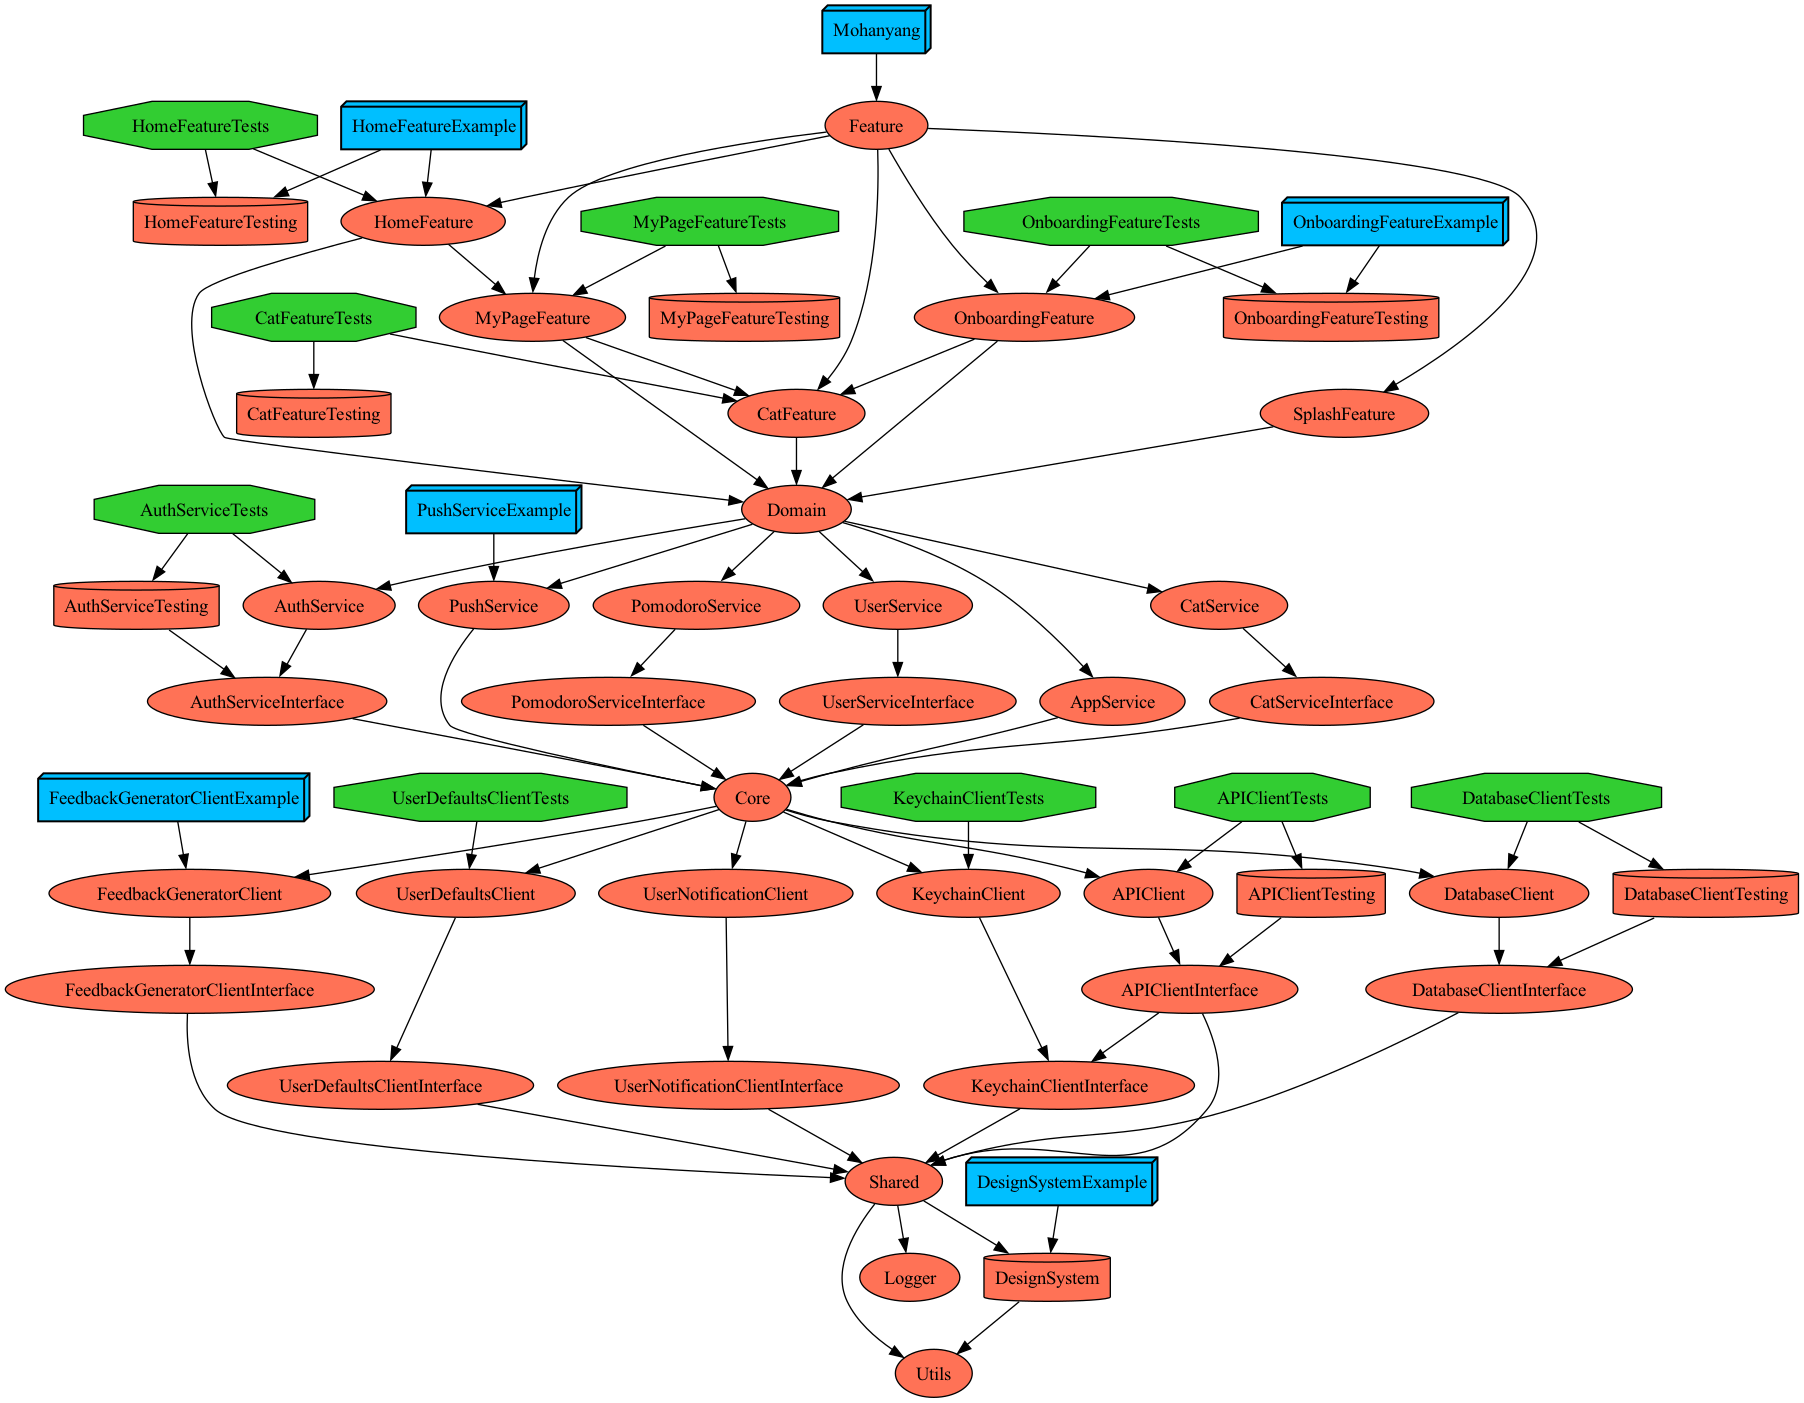
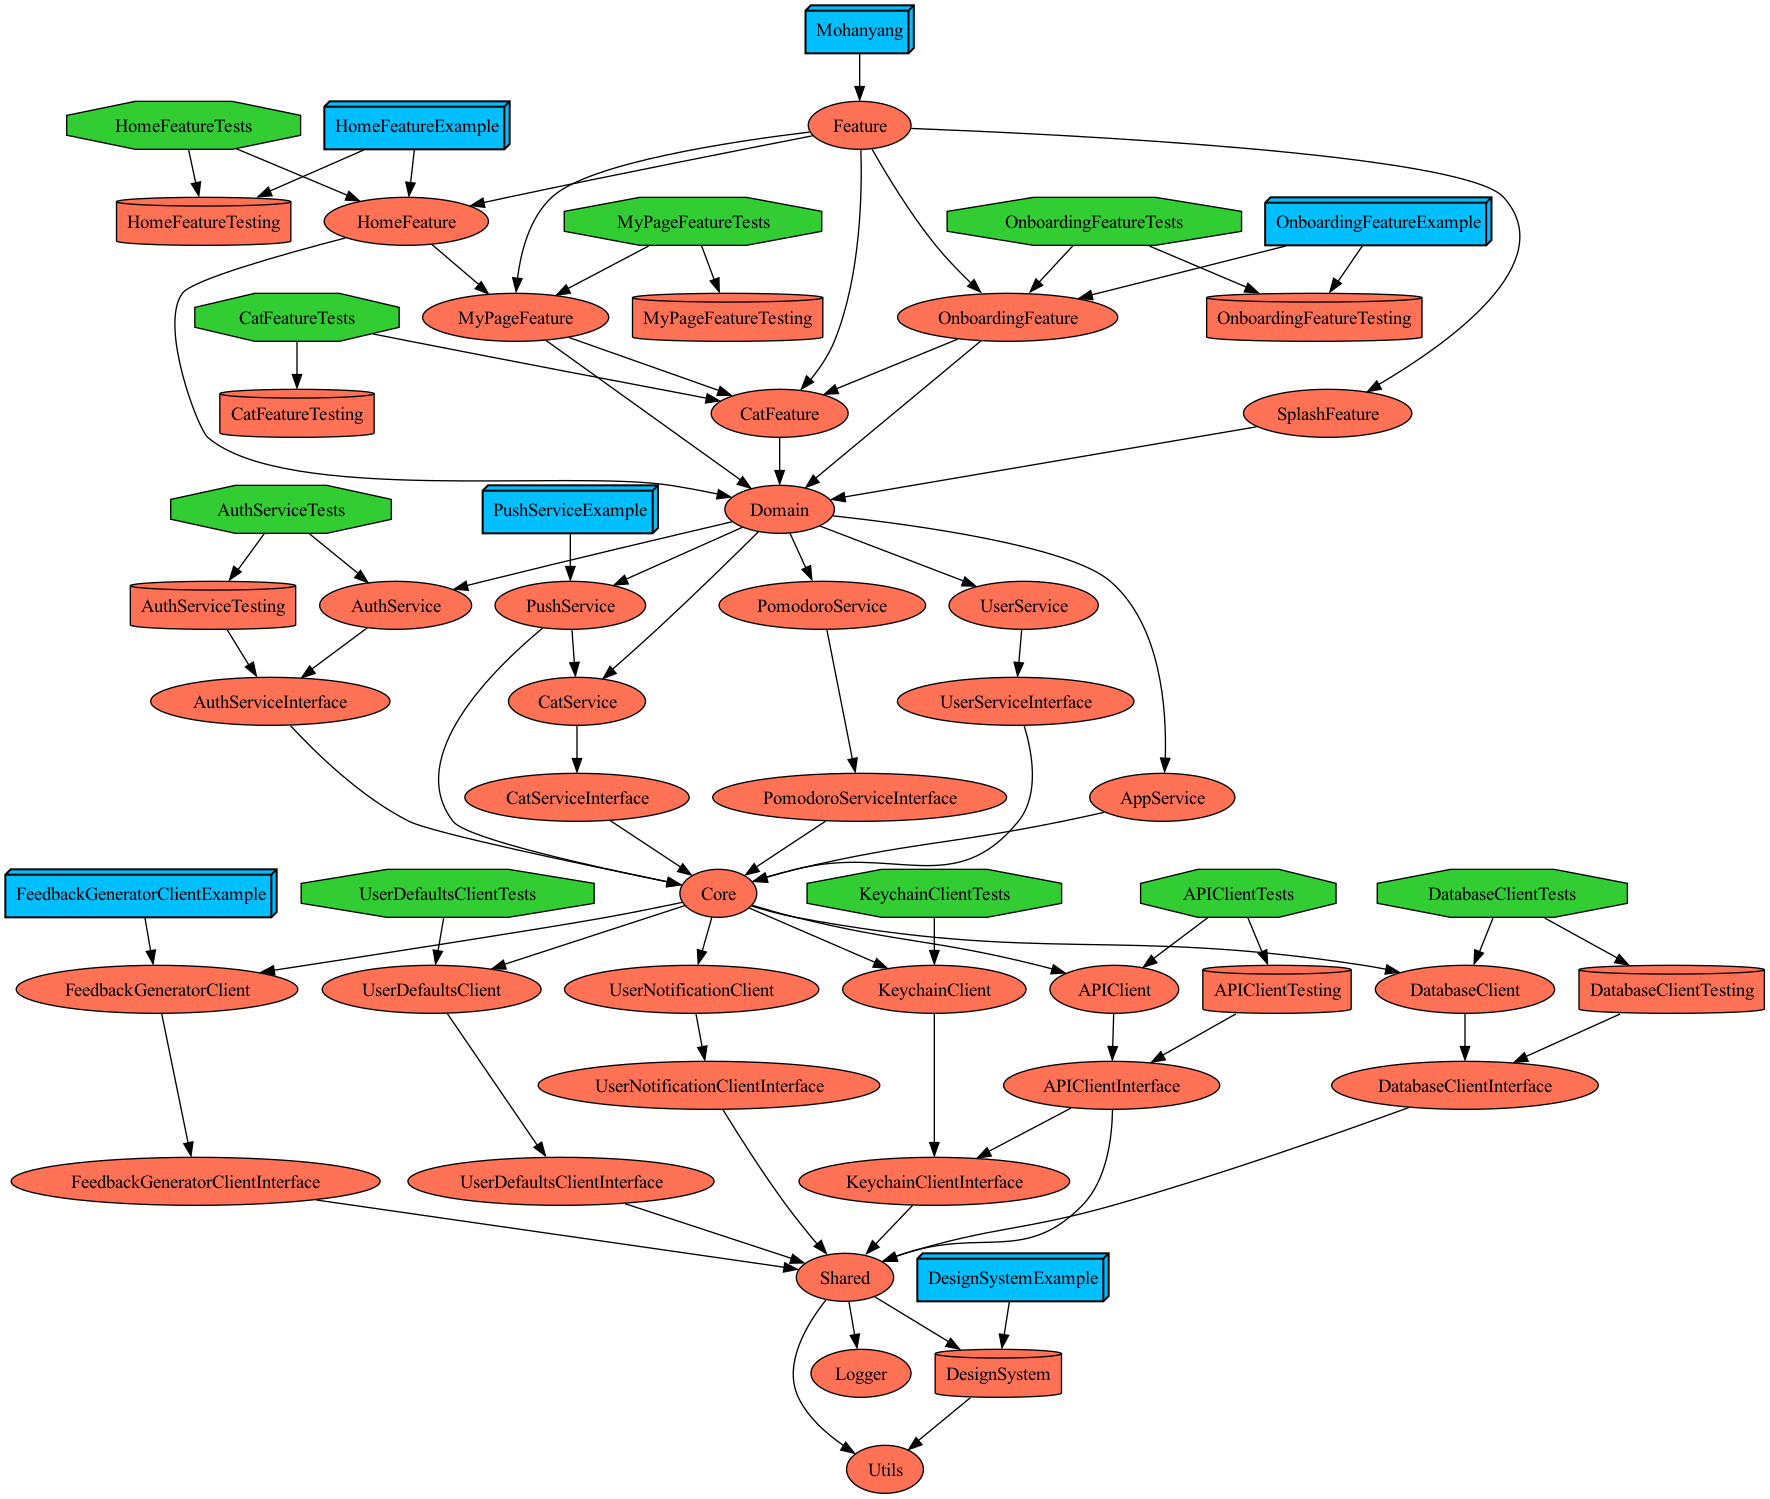
[CAT-217] 알림설정 UserDefault 저장 (#41)

Changed region(s): [[0.0, 0.0, 1.0, 1.0], [0.5593, 0.3065, 0.5904, 0.3371]]

diff --git a/Projects/Domain/CatService/Interface/Model/CatFactory.swift b/Projects/Domain/CatService/Interface/Model/CatFactory.swift
@@ -23,12 +23,14 @@ public struct AnyCat: CatFactoryProtocol, Identifiable, Equatable {
 
   public var id: String { base.id }
   public var no: Int { base.no }
+  public var name: String
   public var keyword: String { base.keyword }
   public var keywordImage: Image { base.keywordImage }
-  public var name: String
   public var catImage: Image { base.catImage }
   public var selectCatRivTrigger: String { base.selectCatRivTrigger }
-  public var pushNotificationTitle: String { base.pushNotificationTitle }
+  public var focusEndPushTitle: String { base.focusEndPushTitle }
+  public var restEndPushTitle: String { base.restEndPushTitle }
+  public var disturbPushTitle: String { base.disturbPushTitle }
 
   public static func == (lhs: AnyCat, rhs: AnyCat) -> Bool {
     lhs.base.id == rhs.base.id
@@ -49,7 +51,9 @@ public struct CheeseCat: CatFactoryProtocol {
   public var keywordImage: Image = DesignSystemAsset.Image._16Star.swiftUIImage
   public var catImage: Image = Image(systemName: "star.fill")
   public var selectCatRivTrigger: String = "Click_Cheese Cat"
-  public var pushNotificationTitle: String = "어디갔냐옹..."
+  public var focusEndPushTitle: String = "집중이 끝났다냥! 이제 나랑 놀아달라냥"
+  public var restEndPushTitle: String = "이제 다시 집중해볼까냥?"
+  public var disturbPushTitle: String = "날 두고 어디갔냥.."
 }
 
 // MARK: BLACK CAT
@@ -66,7 +70,9 @@ public struct BlackCat: CatFactoryProtocol {
   public var keywordImage: Image = DesignSystemAsset.Image._16Heart.swiftUIImage
   public var catImage: Image = Image(systemName: "star")
   public var selectCatRivTrigger: String = "Click_Black Cat"
-  public var pushNotificationTitle: String = "어디갔냐옹..."
+  public var focusEndPushTitle: String = "집중이 끝났다냥! 이제 나랑 놀아달라냥"
+  public var restEndPushTitle: String = "이제 다시 집중해볼까냥?"
+  public var disturbPushTitle: String = "날 두고 어디갔냥.."
 }
 
 // MARK: THREE_COLOR CAT
@@ -83,7 +89,9 @@ public struct ThreeColorCat: CatFactoryProtocol {
   public var keywordImage: Image = DesignSystemAsset.Image._16Focus.swiftUIImage
   public var catImage: Image = Image(systemName: "star.fill")
   public var selectCatRivTrigger: String = "Click_Calico Cat"
-  public var pushNotificationTitle: String = "내가 여기있는데 어디갔냐옹!"
+  public var focusEndPushTitle: String = "집중이 끝났다냥! 원하는 만큼 집중했냥?"
+  public var restEndPushTitle: String = "집중할 시간이다냥! 빨리 들어오라냥"
+  public var disturbPushTitle: String = "지금 뭐하고 있냥? 내가 감시하고 있다냥"
 }
 
 // MARK: MAKE CAT

diff --git a/Projects/Feature/MyPageFeature/Sources/MyPage/MyPageCore.swift b/Projects/Feature/MyPageFeature/Sources/MyPage/MyPageCore.swift
@@ -9,6 +9,8 @@
 import CatFeature
 import APIClientInterface
 import UserServiceInterface
+import CatServiceInterface
+import UserDefaultsClientInterface
 
 import ComposableArchitecture
 
@@ -18,7 +20,7 @@ public struct MyPageCore {
   public struct State: Equatable {
     public init() { }
     var cat: AnyCat? = nil
-    var isFocusTimeAlarmOn: Bool = false
+    var isTimerAlarmOn: Bool = false
     var isDisturbAlarmOn: Bool = false
     var isInternetConnected: Bool = false
     let feedbackURLString: String = "https://forms.gle/wEUPH9Tvxgua4hCZ9"
@@ -35,6 +37,9 @@ public struct MyPageCore {
 
   @Dependency(APIClient.self) var apiClient
   @Dependency(UserService.self) var userService
+  @Dependency(UserDefaultsClient.self) var userDefaultsClient
+  let isTimerAlarmOnKey = "mohanyang_userdefaults_isTimerAlarmOnKey"
+  let isDisturbAlarmOnKey = "mohanyang_userdefaults_isDisturmAlarmOnKey"
 
   public init() {}
   
@@ -49,6 +54,8 @@ public struct MyPageCore {
   private func core(state: inout State, action: Action) -> EffectOf<Self> {
     switch action {
     case .onAppear:
+      state.isTimerAlarmOn = userDefaultsClient.boolForKey(isTimerAlarmOnKey)
+      state.isDisturbAlarmOn = userDefaultsClient.boolForKey(isDisturbAlarmOnKey)
       return .run { send in
         let data = try await userService.getUserInfo(apiClient: apiClient)
         await send(._responseUserInfo(data))
@@ -69,6 +76,16 @@ public struct MyPageCore {
 
     case .myCat:
       return .none
+
+    case .binding(\.isTimerAlarmOn):
+      return .run { [isTimerAlarmOn = state.isTimerAlarmOn] _ in
+        await userDefaultsClient.setBool(isTimerAlarmOn, isTimerAlarmOnKey)
+      }
+
+    case .binding(\.isDisturbAlarmOn):
+      return .run { [isDisturbAlarmOn = state.isDisturbAlarmOn] _ in
+        await userDefaultsClient.setBool(isDisturbAlarmOn, isDisturbAlarmOnKey)
+      }
 
     case .binding:
       return .none

diff --git a/Projects/Domain/PushService/Sources/Model/LocalPushNotificationContent.swift b/Projects/Domain/PushService/Sources/Model/LocalPushNotificationContent.swift
@@ -7,28 +7,36 @@
 //
 
 import Foundation
+import CatServiceInterface
 
 public enum LocalPushNotificationContent {
-  case test
-  
+  case focus(AnyCat)
+  case rest(AnyCat)
+  case disturb(AnyCat)
+
   public var title: String {
-    switch self {
-    case .test:
-      return "테스트 집중"
-    }
+    return "모하냥"
   }
   
   public var body: String {
     switch self {
-    case .test:
-      return "\(10)시 까지 집중해봐요!"
+    case .focus(let cat):
+      return cat.focusEndPushTitle
+    case .rest(let cat):
+      return cat.restEndPushTitle
+    case .disturb(let cat):
+      return cat.disturbPushTitle
     }
   }
   
   public var identifier: String {
     switch self {
-    case .test:
-      return "group1"
+    case .focus:
+      return "focus"
+    case .rest:
+      return "rest"
+    case .disturb:
+      return "disturb"
     }
   }
 }

diff --git a/Projects/Feature/CatFeature/Sources/SelectCat/SelectCatView.swift b/Projects/Feature/CatFeature/Sources/SelectCat/SelectCatView.swift
@@ -8,6 +8,7 @@
 
 import SwiftUI
 
+import CatServiceInterface
 import DesignSystem
 
 import ComposableArchitecture
@@ -112,7 +113,7 @@ struct CatPushNotificationExampleView: View {
                 .foregroundStyle(Alias.Color.Text.secondary)
             }
             HStack {
-              Text(selectedCat.pushNotificationTitle)
+              Text(selectedCat.disturbPushTitle)
                 .font(Typography.subBodyR)
                 .foregroundStyle(Alias.Color.Text.primary)
               Spacer()

diff --git a/Projects/Domain/CatService/Interface/Model/CatFactoryProtocol.swift b/Projects/Domain/CatService/Interface/Model/CatFactoryProtocol.swift
@@ -16,5 +16,7 @@ public protocol CatFactoryProtocol {
   var keywordImage: Image { get } // 키워드에 따른 아이콘 이미지
   var catImage: Image { get }
   var selectCatRivTrigger: String { get }
-  var pushNotificationTitle: String { get } // 푸시알림 예시 글귀
+  var focusEndPushTitle: String { get }
+  var restEndPushTitle: String { get }
+  var disturbPushTitle: String { get }
 }

diff --git a/Projects/Feature/MyPageFeature/Sources/MyPage/MyPageView.swift b/Projects/Feature/MyPageFeature/Sources/MyPage/MyPageView.swift
@@ -48,7 +48,7 @@ public struct MyPageView: View {
             AlarmSectionView(
               title: "집중시간 알림받기",
               subTitle: "집중・휴식시간이 되면 고양이가 알려줘요",
-              isOn: $store.isFocusTimeAlarmOn
+              isOn: $store.isTimerAlarmOn
             )
             AlarmSectionView(
               title: "딴 짓 방해하기",

diff --git a/Projects/Domain/PushService/Project.swift b/Projects/Domain/PushService/Project.swift
@@ -14,7 +14,8 @@ let project: Project = .makeTMABasedProject(
   ],
   dependencies: [
     .sources: [
-      .dependency(rootModule: Core.self)
+      .dependency(rootModule: Core.self),
+      .dependency(module: Domain.CatService)
     ]
   ]
 )

diff --git a/Projects/Feature/MyPageFeature/Sources/MyCat/MyCatCore.swift b/Projects/Feature/MyPageFeature/Sources/MyCat/MyCatCore.swift
@@ -7,6 +7,7 @@
 //
 
 import CatFeature
+import CatServiceInterface
 
 import ComposableArchitecture
 
